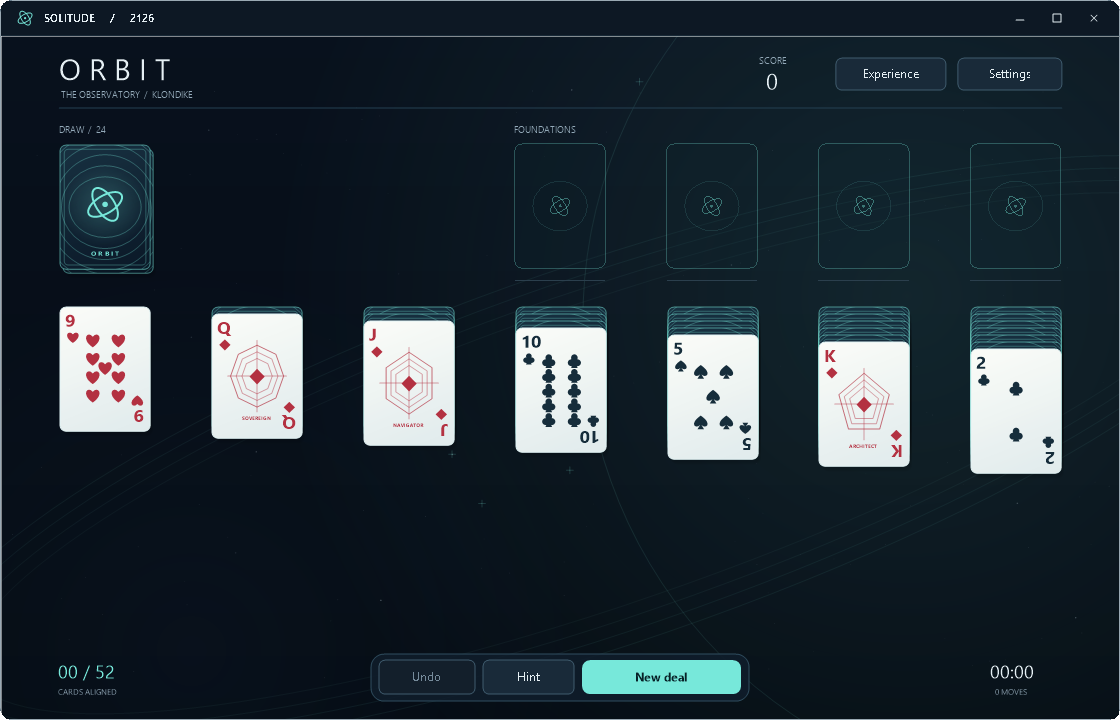
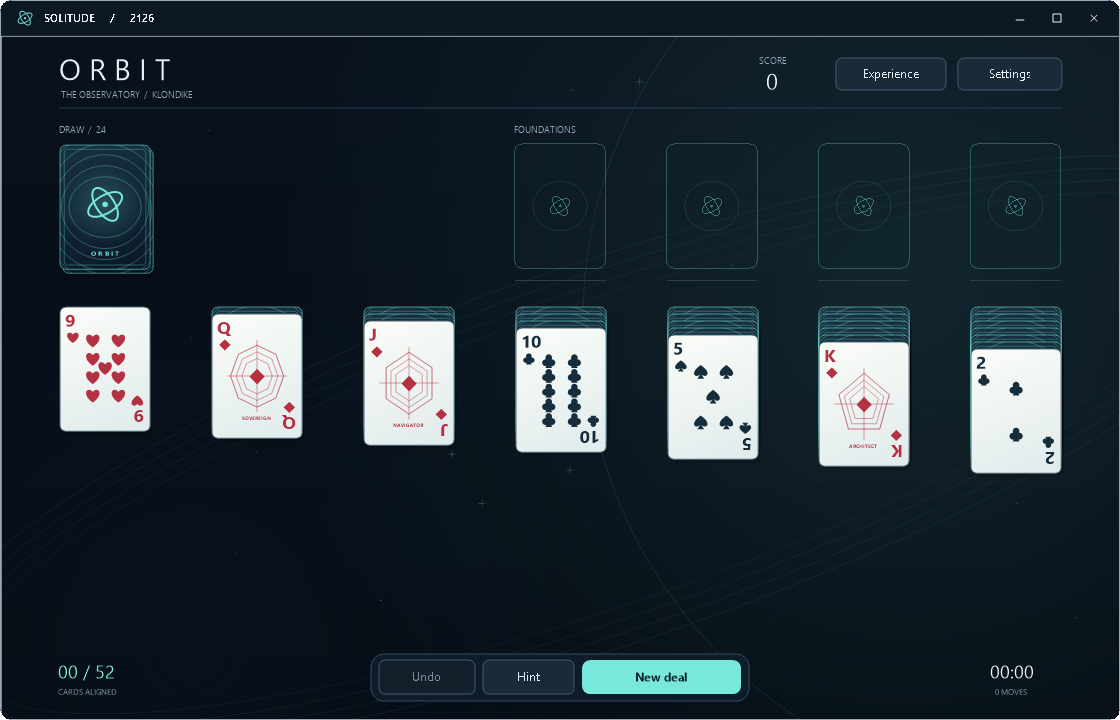
Make overlapping ORBIT cards distinct and readable

diff --git a/tests/FutureChecks.cs b/tests/FutureChecks.cs
@@ -69,8 +69,29 @@ internal static partial class UiProgram
                 Check(bounds.Top>=0 && bounds.Bottom<=form.Height/(scale/100f),"ORBIT dialog does not fit at "+scale+": "+page);Key(form,Keys.Escape);
             }
         }
-        CheckFuturePersistence();CheckFutureWin();CheckFutureMotionInterruption();
+        CheckFuturePersistence();CheckFutureWin();CheckFutureMotionInterruption();CheckFutureCardSeparation();
         Console.WriteLine("PASS ORBIT palettes, input, frame continuity, reduced motion, saved sessions and constellation victory");
+    }
+    private static void CheckFutureCardSeparation()
+    {
+        foreach(int scale in new[]{100,125,150,200})
+        {
+            using var form=new GameWindow(new Store("artifacts/orbit-separation-state"),Era.Future2126,1989,scale,true);
+            form.Game.Draw();Paint(form);
+            var top=Area(form,new(PileKind.Waste,0,form.Game.State.Waste.Count-1));
+            float width=(float)typeof(GameWindow).GetProperty("CardWidth",Private)!.GetValue(form)!;
+            float step=(float)typeof(GameWindow).GetProperty("WasteStep",Private)!.GetValue(form)!;
+            Check(step>=width*31/96,"Draw-three overlap hides a two-digit rank or its suit");
+            using var frame=new Bitmap(form.Width,form.Height);DrawFrame(form,frame);
+            int y=(int)((top.Y+top.Height*.55f)*scale/100);
+            int x=(int)MathF.Round(top.X*scale/100);
+            int darkest=Enumerable.Range(Math.Max(0,x-1),4).Select(xx=>frame.GetPixel(xx,y).R).Min();
+            int face=frame.GetPixel(x+(int)(8*scale/100f),y).R;
+            Check(face-darkest>65,"Overlapping ORBIT cards lack a visible separating edge");
+            var guidance=(RectangleF)typeof(GameWindow).GetMethod("FuturePosition",Private)!.Invoke(form,[new Position(PileKind.Waste)])!;
+            Check(guidance==top,"ORBIT waste guidance differs from its clickable card");
+            if(scale==150)frame.Save("artifacts/orbit-checks/separated-waste.png");
+        }
     }
     private static void CheckFutureMotionInterruption()
     {

diff --git a/src/GameWindow.Future.cs b/src/GameWindow.Future.cs
@@ -87,7 +87,7 @@ public sealed partial class GameWindow
         int count=Math.Max(1,Math.Min(Game.State.WasteFan,Game.State.Waste.Count));
         for(int i=0;i<count && Game.State.Waste.Count>0;i++)
         {
-            int index=Game.State.Waste.Count-count+i;var r=TopCard(1);r.X+=i*19;
+            int index=Game.State.Waste.Count-count+i;var r=TopCard(1);r.X+=i*WasteStep;
             var pos=new Position(PileKind.Waste,0,index);if(!(dragging && IsSelected(pos)))DrawGameCard(g,Game.State.Waste[index],r);
             if(i==count-1)cardAreas.Add((pos,r));
         }
@@ -115,7 +115,7 @@ public sealed partial class GameWindow
     }
     private RectangleF FuturePosition(Position p)=>p.Kind switch
     {
-        PileKind.Stock=>StockRect,PileKind.Waste=>new(TopCard(1).X+Math.Max(0,Math.Min(Game.State.WasteFan,Game.State.Waste.Count)-1)*19,TopCard(1).Y,CardWidth,CardHeight),
+        PileKind.Stock=>StockRect,PileKind.Waste=>new(TopCard(1).X+Math.Max(0,Math.Min(Game.State.WasteFan,Game.State.Waste.Count)-1)*WasteStep,TopCard(1).Y,CardWidth,CardHeight),
         PileKind.Foundation=>TopCard(p.Pile+3),_=>TableauCard(p.Pile,Math.Max(0,p.Index<0?Game.State.Tableau[p.Pile].Count-1:p.Index))
     };
     private void FutureOutline(Graphics g,RectangleF r,Color color,float strength=1)

diff --git a/src/GameWindow.cs b/src/GameWindow.cs
@@ -66,6 +66,7 @@ public sealed partial class GameWindow : Form
     private float CardHeight => CardWidth * (skin.Modern?152f/111:96f/71);
     private float TableMargin => skin.Future?Table.Width*.052f:skin.Modern?Table.Width*(Kind==GameKind.Klondike?.1f:.035f):Kind==GameKind.FreeCell?1:12;
     private float ColumnGap => (Table.Width-2*TableMargin-CardWidth)/(Game.State.Tableau.Count-1);
+    private float WasteStep => skin.Future?CardWidth*.36f:skin.Modern?19:16;
     private float TableauY => Kind==GameKind.Spider?Table.Top+(skin.Modern?30:12):Table.Top + CardHeight + (skin.Future?72:skin.Modern ? 52 : Kind==GameKind.FreeCell?15:24);
     private RectangleF TopCard(int slot) => new(Table.Left+TableMargin+ColumnGap*slot,Table.Top+(skin.Future?34:skin.Modern?24:12),CardWidth,CardHeight);
     private RectangleF StockRect => Kind==GameKind.Spider?new(Table.Right-CardWidth-16,Table.Bottom-CardHeight-12,CardWidth,CardHeight):TopCard(0);

diff --git a/src/FutureArt.cs b/src/FutureArt.cs
@@ -93,7 +93,7 @@ public sealed class FutureArt : IDisposable
         for(int i=5;i>=1;i--)Panel(g,new(2+i*.35f,3+i*.7f,95,135),Color.FromArgb(8,0,0,0),Color.Transparent,7);
         var r=new RectangleF(.5f,.5f,95,135);using var path=Skin.Rounded(r,6);
         using(var fill=new LinearGradientBrush(r,card.FaceUp?Color.FromArgb(251,252,248):Color.FromArgb(24,49,65),card.FaceUp?Color.FromArgb(224,235,236):Color.FromArgb(10,24,39),68))g.FillPath(fill,path);
-        using(var edge=new Pen(card.FaceUp?Color.FromArgb(226,244,245):Color.FromArgb(140,Accent),.8f))g.DrawPath(edge,path);
+        using(var edge=new Pen(card.FaceUp?Color.FromArgb(76,102,116):Color.FromArgb(140,Accent),card.FaceUp?1.15f:.8f))g.DrawPath(edge,path);
         if(!card.FaceUp)
         {
             using var inset=Skin.Rounded(new(5,5,86,126),4);using var p=new Pen(Color.FromArgb(80,Accent),.6f);g.DrawPath(p,inset);

diff --git a/src/GameWindow.Dialogs.cs b/src/GameWindow.Dialogs.cs
@@ -77,7 +77,7 @@ public sealed partial class GameWindow
                 Wrapped(g,$"Games played: {Statistics.Played}\nGames won: {Statistics.Won}\nBest score: {Statistics.BestScore}",new(x,y+38,w,75));
                 DialogButton(g,"ok",new(body.Right-94,body.Bottom-36,80,25),"OK",CloseDialog,true);break;
             case DialogPage.AppAbout:
-                skin.Text(g,"Solitude 0.10.0",new(x,y,w,25),font:skin.Bold);
+                skin.Text(g,"Solitude 0.10.1",new(x,y,w,25),font:skin.Bold);
                 Wrapped(g,"Windows card games, 1990-2007.\nORBIT, imagined for 2126.\nPress F6 to choose an edition.",new(x,y+38,w,78));
                 DialogButton(g,"ok",new(body.Right-94,body.Bottom-36,80,25),"OK",CloseDialog,true);break;
             case DialogPage.MoveColumn:

diff --git a/src/GameWindow.FutureDialogs.cs b/src/GameWindow.FutureDialogs.cs
@@ -79,7 +79,7 @@ public sealed partial class GameWindow
         else
         {
             FutureArt.OrbitMark(g,new(x,y+4,48,48),Orbit.Accent);Orbit.Text(g,"ORBIT / 2126",new(x+65,y,w-65,36),25);
-            skin.Wrapped(g,"Solitude, imagined one century from now.\n\nOriginal geometric cards, spatial choreography and synthesized sound. The rules remain Klondike.\n\nPart of Solitude 0.10.0.",new(x,y+73,w,156));
+            skin.Wrapped(g,"Solitude, imagined one century from now.\n\nOriginal geometric cards, spatial choreography and synthesized sound. The rules remain Klondike.\n\nPart of Solitude 0.10.1.",new(x,y+73,w,156));
             DialogButton(g,"ok",new(x+w-100,bottom-45,100,30),"Continue",CloseDialog,true);
         }
     }

diff --git a/src/GameWindow.Motion.cs b/src/GameWindow.Motion.cs
@@ -52,7 +52,7 @@ public sealed partial class GameWindow
         int fan=Math.Max(1,Math.Min(Game.State.WasteFan,Game.State.Waste.Count));
         for(int i=0;i<Game.State.Waste.Count;i++)
         {
-            int slot=i-(Game.State.Waste.Count-fan);var r=TopCard(1);r.X+=Math.Max(0,slot)*(skin.Modern?19:16);
+            int slot=i-(Game.State.Waste.Count-fan);var r=TopCard(1);r.X+=Math.Max(0,slot)*WasteStep;
             Add(Game.State.Waste[i],r,new(PileKind.Waste,0,i),slot>=0,100+i);
         }
         for(int col=0;col<Game.State.Tableau.Count;col++)for(int i=0;i<Game.State.Tableau[col].Count;i++)

diff --git a/docs/VERIFICATION.md b/docs/VERIFICATION.md
@@ -1,68 +1,12 @@
-# Verification — Solitude 0.10.0
+# Verification — Solitude 0.10.1
 
-Built and checked locally on 10 September 2026. This release adds the fictional [ORBIT / Solitude 2126 edition](ORBIT-2126.md). Previous results remain in [VERIFICATION-0.9.1.md](VERIFICATION-0.9.1.md).
+This patch gives ORBIT's face-up cards a contrasting slate outline and increases the draw-three fan spacing in proportion to card size. The exposed strip now accommodates two-digit ranks and corner suits. Animation destinations, clickable positions and hint outlines use the same spacing. Historical card art and spacing are unchanged.
 
-## Delivered executable
+**689 ORBIT checks passed**, including 12 new checks for visible overlap edges, rank/suit clearance and matching waste guidance at 100/125/150/200%. The previous 677 checks cover motion, persistence, nested settings, reduced motion and wins. Visual review of the 150% draw-three pile confirms separate outlines. Tests were offscreen; no personal save was accessed.
 
-| Item | Verified result |
-|---|---|
-| Launch path | `dist/Solitude.exe` |
-| Retained release | `artifacts/release-v0100/Solitude.exe` |
-| File version | **0.10.0.0** at both paths |
-| Size | **63,646,565 bytes** |
[1 lines of base64/hex data omitted]
-| Package | Exactly one self-contained Windows x64 EXE |
-| Previous build | Preserved during atomic replacement; 0.9.1 retained under `artifacts/release-v091` |
+The single EXE is version **0.10.1.0**, **63,646,565 bytes**. The normal `dist/Solitude.exe` and retained `artifacts/release-v0101/Solitude.exe` match. SHA-256:
 
-The normal and retained copies have identical hashes. The package contains the runtime, artwork and notices. Native runtime components may extract into Windows temporary storage. Build log: `artifacts/build-final-v0100.log`.
[1 lines of base64/hex data omitted]
 
-## Rules, input and persistence
-
-- **53 rules/persistence groups passed; 0 failed.** The existing engine, 60,000-action conservation exercise and 17-profile rules/restore exploration remain intact. The new edition uses the existing modern Klondike rules, with automatic flips and full-session Undo.
-- **5,805 production UI assertions passed.** These cover all 17 historical profiles and ORBIT at 100/125/150/200%, including actual input-handler event sequences, dialog controls, settings, saves and animation.
-- **677 ORBIT-specific assertions** cover three palettes, repeated frames, cache handoff, rounded edges, double-click isolation, stock double-click suppression, reduced motion, idle frame scheduling, palette application, nested settings Apply/Cancel, edition round trips, disk restoration and Undo history, compatibility boundaries, minimum-window controls/dialogs and both win paths. Four of these verify that interrupting a flip with Undo preserves the card's position, width and bank angle and eventually settles it flat.
-- The shared motion suite also exercises ORBIT stock flips and mid-flight Undo. The remaining historical rendering, double-click, input and persistence checks continue to pass.
-- Appearance opened from Experience keeps the uncommitted draft. Cancelling Experience cancels its nested palette as well. Independent F7 appearance changes save directly.
-
-Logs: `artifacts/orbit-rules.log` and `artifacts/orbit-ui-release.log`. Tests used ephemeral forms and isolated workspace state. No visible game window was launched, desktop input sent, or personal save read or altered.
-
-## Rendering, regression boundaries and package parity
-
-The final source and packaged EXE each rendered **237 application views and 42 motion samples**. All **279 PNG hashes match**. All **five exported embedded notices match** their source files.
-
-Of the previous release's 261 renders, **244 remain byte-identical**. The only differences are the 17 Settings views, which now include the ninth edition. Historical boards, captions, menus, period dialogs and motion samples in this comparison did not change.
-
-ORBIT's continuity checks compare animation frames with a freshly rebuilt static board cache at each frozen time. They exercise the gap between a flight reaching its deadline and the animation loop removing it. Repeated window-edge blending was caught during optimization and fixed by clearing the exposed surface before drawing alpha edges. Existing Vista continuity checks still pass.
-
-Visual review covered the three palettes, constellation and win dialog, plus the packaged 150% Experience and Settings views. Motion previews under `docs/images` were sampled from production render frames; they are not a monitor recording or a frame-rate measurement.
-
-Evidence:
-
-- `artifacts/source-final-v0100-renders`
-- `artifacts/package-final-v0100-renders`
-- `artifacts/orbit-checks` and `artifacts/orbit-demo`
-- `artifacts/notices-final-v0100`
-- `artifacts/package-validation-v0100.json`
-
-## Performance
-
-The final benchmark ran without competing UI/render tests. Each size records 180 warm moving frames and 180 warm settled frames. The moving sequence includes staggered cards, bank transforms, flips and light trails. Timed calls replay flight positions through the production renderer; they are not measurements of presentation to a physical display.
-
-| Display size | Moving median / p95 ms | Settled median / p95 ms |
-|---|---:|---:|
-| 100% | 4.36 / 5.95 | 1.41 / 1.65 |
-| 125% | 6.63 / 12.80 | 2.25 / 3.04 |
-| 150% | 10.66 / 15.69 | 4.65 / 6.62 |
-| 200% | 16.35 / 23.17 | 6.04 / 9.31 |
-
-A separate 150% drag probe using the real Windows message queue and production frame clock delivered **60.0 / 120.0 / 144.0 callbacks per second**, with p95 intervals of **17.10 / 8.73 / 7.32 ms**. Its independent heartbeat remained responsive. The application targets 120 updates per second while animating and stops requesting continuous frames when idle.
-
-These are CPU costs and offscreen callback rates, not monitor FPS or latency. The more demanding deal animation, particularly at 200%, can exceed a 120 Hz or 60 Hz frame budget. Results vary with hardware and system load. No universal smoothness guarantee is made.
-
-The implementation caches the scene, cards and static board, clips card flights to the playing area and rasterizes the rounded scene corners once. This avoids the original full-window complex clip around every moving card. Earlier probes are retained as `artifacts/orbit-performance*.json`; final results are published in [ORBIT-PERFORMANCE-0.10.0.json](ORBIT-PERFORMANCE-0.10.0.json).
-
-## Scope and limits
-
-ORBIT's art, scene, icon and synthesized audio are original procedural code. No new third-party assets or package dependencies were introduced. It is a fictional Klondike edition, not a prediction or reproduction of a future Windows product. FreeCell and Spider retain their historical editions; Windows 7–11 remain deferred.
-
-The historical fidelity limits from 0.9.1 still apply. Matching old renders proves regression stability, not identity to every original Windows build. Monitor-visible animation, audio playback, task switching, multiple monitors, clean-machine portability and a prolonged visible-session resource soak were not tested in this release.
+Test and build logs: `artifacts/ui-v0101.log`, `artifacts/build-v0101.log`. The broader rules, historical regression and performance baseline remains documented in [VERIFICATION-0.10.0.md](VERIFICATION-0.10.0.md); those broader measurements were not rerun for this appearance patch.
+All 18 ORBIT source/package diagnostic images also match byte-for-byte. Evidence: `artifacts/source-v0101` and `artifacts/package-v0101`.

diff --git a/docs/VERIFICATION-0.10.0.md b/docs/VERIFICATION-0.10.0.md
@@ -1,0 +1,68 @@
+# Verification — Solitude 0.10.0
+
+Built and checked locally on 10 September 2026. This release adds the fictional [ORBIT / Solitude 2126 edition](ORBIT-2126.md). Previous results remain in [VERIFICATION-0.9.1.md](VERIFICATION-0.9.1.md).
+
+## Delivered executable
+
+| Item | Verified result |
+|---|---|
+| Launch path | `dist/Solitude.exe` |
+| Retained release | `artifacts/release-v0100/Solitude.exe` |
+| File version | **0.10.0.0** at both paths |
+| Size | **63,646,565 bytes** |
[1 lines of base64/hex data omitted]
+| Package | Exactly one self-contained Windows x64 EXE |
+| Previous build | Preserved during atomic replacement; 0.9.1 retained under `artifacts/release-v091` |
+
+The normal and retained copies have identical hashes. The package contains the runtime, artwork and notices. Native runtime components may extract into Windows temporary storage. Build log: `artifacts/build-final-v0100.log`.
+
+## Rules, input and persistence
+
+- **53 rules/persistence groups passed; 0 failed.** The existing engine, 60,000-action conservation exercise and 17-profile rules/restore exploration remain intact. The new edition uses the existing modern Klondike rules, with automatic flips and full-session Undo.
+- **5,805 production UI assertions passed.** These cover all 17 historical profiles and ORBIT at 100/125/150/200%, including actual input-handler event sequences, dialog controls, settings, saves and animation.
+- **677 ORBIT-specific assertions** cover three palettes, repeated frames, cache handoff, rounded edges, double-click isolation, stock double-click suppression, reduced motion, idle frame scheduling, palette application, nested settings Apply/Cancel, edition round trips, disk restoration and Undo history, compatibility boundaries, minimum-window controls/dialogs and both win paths. Four of these verify that interrupting a flip with Undo preserves the card's position, width and bank angle and eventually settles it flat.
+- The shared motion suite also exercises ORBIT stock flips and mid-flight Undo. The remaining historical rendering, double-click, input and persistence checks continue to pass.
+- Appearance opened from Experience keeps the uncommitted draft. Cancelling Experience cancels its nested palette as well. Independent F7 appearance changes save directly.
+
+Logs: `artifacts/orbit-rules.log` and `artifacts/orbit-ui-release.log`. Tests used ephemeral forms and isolated workspace state. No visible game window was launched, desktop input sent, or personal save read or altered.
+
+## Rendering, regression boundaries and package parity
+
+The final source and packaged EXE each rendered **237 application views and 42 motion samples**. All **279 PNG hashes match**. All **five exported embedded notices match** their source files.
+
+Of the previous release's 261 renders, **244 remain byte-identical**. The only differences are the 17 Settings views, which now include the ninth edition. Historical boards, captions, menus, period dialogs and motion samples in this comparison did not change.
+
+ORBIT's continuity checks compare animation frames with a freshly rebuilt static board cache at each frozen time. They exercise the gap between a flight reaching its deadline and the animation loop removing it. Repeated window-edge blending was caught during optimization and fixed by clearing the exposed surface before drawing alpha edges. Existing Vista continuity checks still pass.
+
+Visual review covered the three palettes, constellation and win dialog, plus the packaged 150% Experience and Settings views. Motion previews under `docs/images` were sampled from production render frames; they are not a monitor recording or a frame-rate measurement.
+
+Evidence:
+
+- `artifacts/source-final-v0100-renders`
+- `artifacts/package-final-v0100-renders`
+- `artifacts/orbit-checks` and `artifacts/orbit-demo`
+- `artifacts/notices-final-v0100`
+- `artifacts/package-validation-v0100.json`
+
+## Performance
+
+The final benchmark ran without competing UI/render tests. Each size records 180 warm moving frames and 180 warm settled frames. The moving sequence includes staggered cards, bank transforms, flips and light trails. Timed calls replay flight positions through the production renderer; they are not measurements of presentation to a physical display.
+
+| Display size | Moving median / p95 ms | Settled median / p95 ms |
+|---|---:|---:|
+| 100% | 4.36 / 5.95 | 1.41 / 1.65 |
+| 125% | 6.63 / 12.80 | 2.25 / 3.04 |
+| 150% | 10.66 / 15.69 | 4.65 / 6.62 |
+| 200% | 16.35 / 23.17 | 6.04 / 9.31 |
+
+A separate 150% drag probe using the real Windows message queue and production frame clock delivered **60.0 / 120.0 / 144.0 callbacks per second**, with p95 intervals of **17.10 / 8.73 / 7.32 ms**. Its independent heartbeat remained responsive. The application targets 120 updates per second while animating and stops requesting continuous frames when idle.
+
+These are CPU costs and offscreen callback rates, not monitor FPS or latency. The more demanding deal animation, particularly at 200%, can exceed a 120 Hz or 60 Hz frame budget. Results vary with hardware and system load. No universal smoothness guarantee is made.
+
+The implementation caches the scene, cards and static board, clips card flights to the playing area and rasterizes the rounded scene corners once. This avoids the original full-window complex clip around every moving card. Earlier probes are retained as `artifacts/orbit-performance*.json`; final results are published in [ORBIT-PERFORMANCE-0.10.0.json](ORBIT-PERFORMANCE-0.10.0.json).
+
+## Scope and limits
+
+ORBIT's art, scene, icon and synthesized audio are original procedural code. No new third-party assets or package dependencies were introduced. It is a fictional Klondike edition, not a prediction or reproduction of a future Windows product. FreeCell and Spider retain their historical editions; Windows 7–11 remain deferred.
+
+The historical fidelity limits from 0.9.1 still apply. Matching old renders proves regression stability, not identity to every original Windows build. Monitor-visible animation, audio playback, task switching, multiple monitors, clean-machine portability and a prolonged visible-session resource soak were not tested in this release.

diff --git a/README.md b/README.md
@@ -1,4 +1,4 @@
-# Solitude 0.10.0
+# Solitude 0.10.1
 
 Solitaire, FreeCell and Spider in one portable Windows EXE, now with **ORBIT / Solitude 2126**: a fictional Solitaire edition imagined one century ahead. Click **Settings** at the top right to choose an edition and game. **F6** and the window icon menu remain available too. Windows 7–11 remain deferred.
 
@@ -18,9 +18,9 @@ Windows 98's Spider belonged to the separate Plus! 98 add-on and is not offered 
 
 ## Run
 
-**[Download Solitude.exe for Windows x64](https://github.com/cazrl/Solitude/releases/download/v0.10.0/Solitude.exe)** from the [0.10.0 release](https://github.com/cazrl/Solitude/releases/tag/v0.10.0).
+**[Download Solitude.exe for Windows x64](https://github.com/cazrl/Solitude/releases/download/v0.10.1/Solitude.exe)** from the [0.10.1 release](https://github.com/cazrl/Solitude/releases/tag/v0.10.1).
 
-The **0.10.0** package is [`dist/Solitude.exe`](dist/Solitude.exe), with an identical retained copy at [`artifacts/release-v0100/Solitude.exe`](artifacts/release-v0100/Solitude.exe). Older packages are preserved under `artifacts`.
+The **0.10.1** package is [`dist/Solitude.exe`](dist/Solitude.exe), with an identical retained copy at [`artifacts/release-v0101/Solitude.exe`](artifacts/release-v0101/Solitude.exe). Older packages are preserved under `artifacts`.
 
 Run the EXE on 64-bit Windows 10 or 11. It contains the runtime, artwork and notices. No installer, account, network connection or separate .NET installation is required. Native runtime components may extract into the temporary directory.
 
